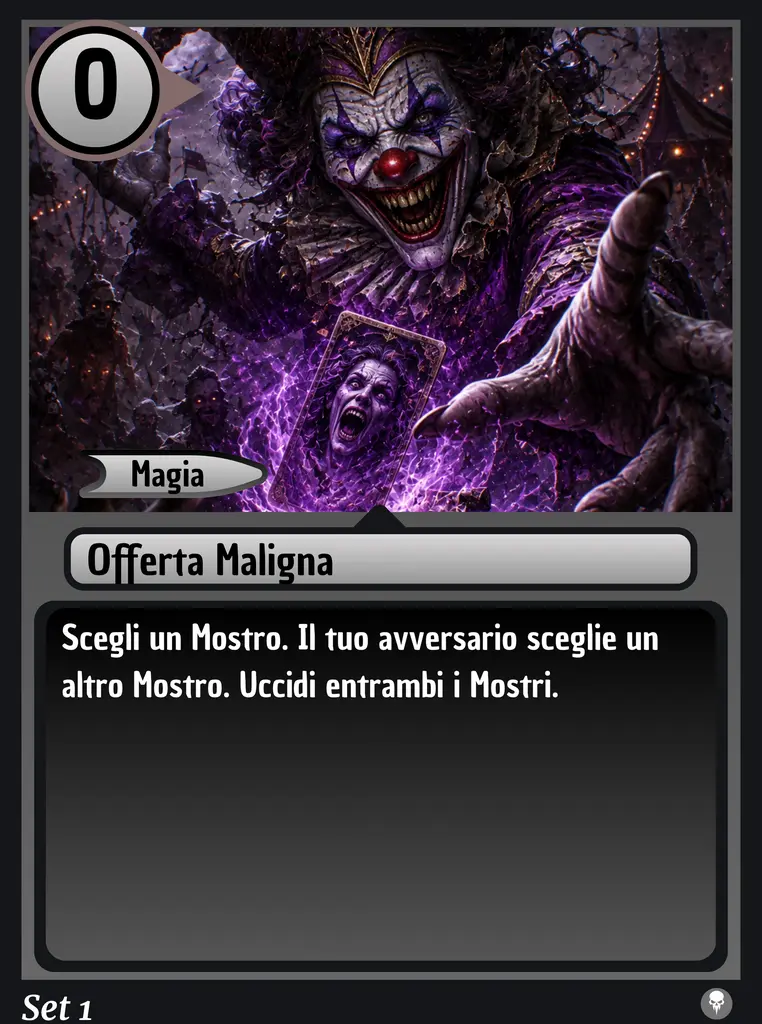
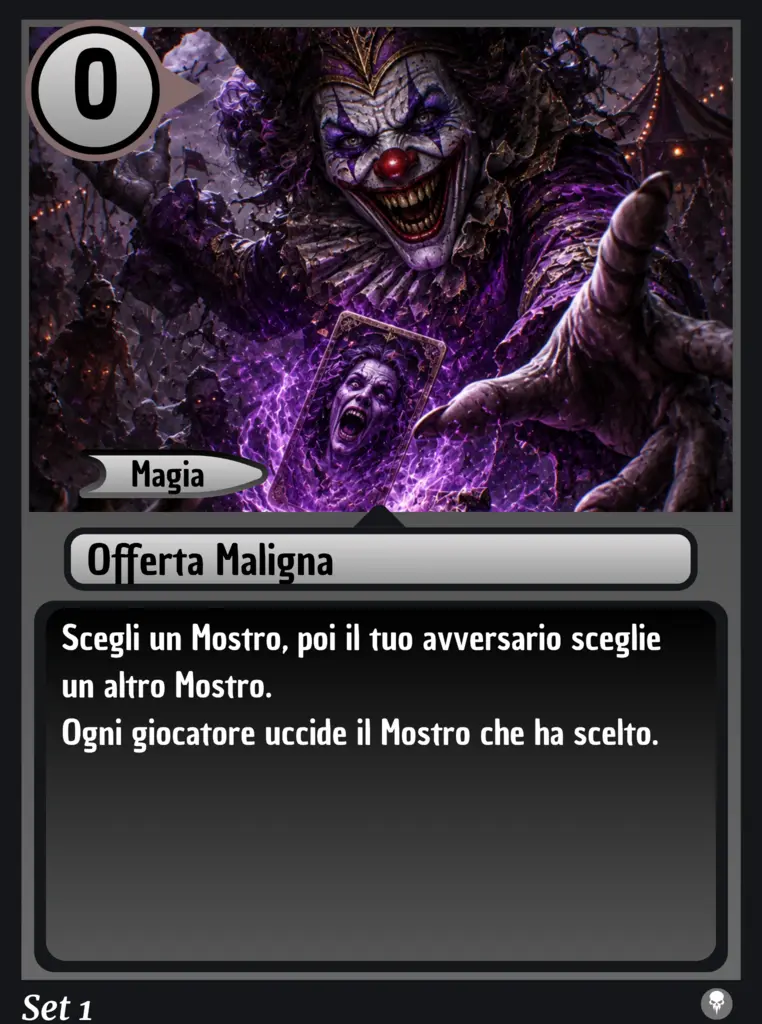
Update Offerta Maligna art and split kill logic

Changed region(s): [[0.0604, 0.5938, 0.8753, 0.75], [0.7244, 0.25, 0.7546, 0.2812]]

diff --git a/soulforge/index.html b/soulforge/index.html
@@ -18,7 +18,7 @@
     const fixes={'â€¢':'•','â€”':'—','â†’':'→','â€™':'’','â€¦':'…','â†‘':'↑','â†“':'↓','PrioritÃ ':'Priorità','sarÃ ':'sarà','lâ€™':'l’'};
     for(const [bad,good] of Object.entries(fixes)) html=html.split(bad).join(good);
     html=html.replace('</head>','<link rel="stylesheet" href="/ui-v2.css?v=4"><link rel="stylesheet" href="/grave-targets-v4.css?v=1"><link rel="stylesheet" href="/interaction-v5.css?v=1"><link rel="stylesheet" href="/layout-v9.css?v=1"><link rel="stylesheet" href="/hand-v11.css?v=3"><link rel="stylesheet" href="/set1-v18.css?v=1"><link rel="stylesheet" href="/blue-v22.css?v=1"><link rel="stylesheet" href="/deck-builder-v18.css?v=2"><link rel="stylesheet" href="/deck-builder-v22.css?v=4"><link rel="stylesheet" href="/attack-arrow-v20.css?v=1"><link rel="stylesheet" href="/fantasy-board-v29.css?v=1"><link rel="stylesheet" href="/fantasy-board-v29-fix.css?v=1"><link rel="stylesheet" href="/fantasy-board-v30.css?v=1"><link rel="stylesheet" href="/fantasy-board-v31.css?v=1"><link rel="stylesheet" href="/fantasy-board-v32.css?v=1"><link rel="stylesheet" href="/fantasy-board-v33.css?v=1"><link rel="stylesheet" href="/fantasy-board-v34.css?v=1"><link rel="stylesheet" href="/preview-v35.css?v=1"><link rel="stylesheet" href="/fantasy-board-v36.css?v=1"><link rel="stylesheet" href="/fantasy-board-v37.css?v=1"><link rel="stylesheet" href="/fantasy-board-v38.css?v=1"><link rel="stylesheet" href="/fantasy-board-v39.css?v=1"><link rel="stylesheet" href="/coin-hand-v40.css?v=1"><link rel="stylesheet" href="/card-hud-v41.css?v=2"><link rel="stylesheet" href="/hand-position-v74.css?v=1"></head>');
-    html=html.replace('</body>','<script src="/ui-v2.js?v=6"><\/script><script src="/combat-rules-v28.js?v=2"><\/script><script src="/right-click-preview.js?v=7"><\/script><script src="/grave-targets-v4.js?v=2"><\/script><script src="/interaction-v5.js?v=2"><\/script><script src="/targeting-v8.js?v=2"><\/script><script src="/specchio-stack-fix.js?v=1"><\/script><script src="/stability-v10.js?v=1"><\/script><script src="/hand-v11.js?v=4"><\/script><script src="/alta-marea-v13.js?v=1"><\/script><script src="/selection-v16.js?v=1"><\/script><script src="/set1-v17.js?v=4"><\/script><script src="/blue-v22-loader.js?v=10"><\/script><script src="/deck-builder-v27-loader.js?v=3"><\/script><script src="/deck-builder-visual-fix-v71.js?v=10"><\/script><script src="/deck-preview-details-v76.js?v=1"><\/script><script src="/new-monsters-details-v78.js?v=2"><\/script><script src="/attack-arrow-v20.js?v=1"><\/script><script src="/rules-v23.js?v=2"><\/script><script src="/provocation-v24.js?v=2"><\/script><script src="/targeting-standard-v27.js?v=1"><\/script><script src="/fantasy-board-v29.js?v=2"><\/script><script src="/fantasy-board-v30.js?v=2"><\/script><script src="/fantasy-board-v31.js?v=2"><\/script><script src="/preview-conflict-v37.js?v=1"><\/script><script src="/preview-cleanup-v38.js?v=1"><\/script><script src="/coin-hand-v40.js?v=1"><\/script><script src="/card-hud-v41.js?v=1"><\/script><script src="/festa-art-v42.js?v=1"><\/script><script src="/combat-priority-v44.js?v=1"><\/script><script src="/turn-effects-v45.js?v=1"><\/script><script src="/new-cards-v46.js?v=7"><\/script><script src="/new-card-runtime-v47.js?v=1"><\/script><script src="/deck-builder-filters-v48.js?v=4"><\/script><script src="/rules-priority-grave-v49.js?v=4"><\/script><script src="/gameover-rematch-v50.js?v=1"><\/script><script src="/taglio-fiammante-v51.js?v=1"><\/script><script src="/nube-di-fuoco-v52.js?v=1"><\/script><script src="/orange-safe-v1.js?v=2"><\/script><script src="/orange-ui-v2.js?v=2"><\/script><script src="/compact-champions-v61.js?v=1"><\/script><script src="/pugno-target-v62.js?v=2"><\/script><script src="/champion-target-v63.js?v=1"><\/script><script src="/festa-fix-v64.js?v=1"><\/script><script src="/no-target-cast-v65.js?v=1"><\/script><script src="/game-interaction-lock-v66.js?v=1"><\/script><script src="/grave-art-v67.js?v=2"><\/script><script src="/scatola-incantata-v75.js?v=1"><\/script><script src="/new-set-v70.js?v=2"><\/script><script src="/new-set-art-v73.js?v=6"><\/script><script src="/latest-set-v82.js?v=1"><\/script><script src="/new-monsters-v77.js?v=2"><\/script><script src="/hand-input-v69.js?v=3"><\/script></body>');
+    html=html.replace('</body>','<script src="/ui-v2.js?v=6"><\/script><script src="/combat-rules-v28.js?v=2"><\/script><script src="/right-click-preview.js?v=7"><\/script><script src="/grave-targets-v4.js?v=2"><\/script><script src="/interaction-v5.js?v=2"><\/script><script src="/targeting-v8.js?v=2"><\/script><script src="/specchio-stack-fix.js?v=1"><\/script><script src="/stability-v10.js?v=1"><\/script><script src="/hand-v11.js?v=4"><\/script><script src="/alta-marea-v13.js?v=1"><\/script><script src="/selection-v16.js?v=1"><\/script><script src="/set1-v17.js?v=4"><\/script><script src="/blue-v22-loader.js?v=10"><\/script><script src="/deck-builder-v27-loader.js?v=3"><\/script><script src="/deck-builder-visual-fix-v71.js?v=10"><\/script><script src="/deck-preview-details-v76.js?v=1"><\/script><script src="/new-monsters-details-v78.js?v=2"><\/script><script src="/attack-arrow-v20.js?v=1"><\/script><script src="/rules-v23.js?v=2"><\/script><script src="/provocation-v24.js?v=2"><\/script><script src="/targeting-standard-v27.js?v=1"><\/script><script src="/fantasy-board-v29.js?v=2"><\/script><script src="/fantasy-board-v30.js?v=2"><\/script><script src="/fantasy-board-v31.js?v=2"><\/script><script src="/preview-conflict-v37.js?v=1"><\/script><script src="/preview-cleanup-v38.js?v=1"><\/script><script src="/coin-hand-v40.js?v=1"><\/script><script src="/card-hud-v41.js?v=1"><\/script><script src="/festa-art-v42.js?v=1"><\/script><script src="/combat-priority-v44.js?v=1"><\/script><script src="/turn-effects-v45.js?v=1"><\/script><script src="/new-cards-v46.js?v=7"><\/script><script src="/new-card-runtime-v47.js?v=1"><\/script><script src="/deck-builder-filters-v48.js?v=4"><\/script><script src="/rules-priority-grave-v49.js?v=4"><\/script><script src="/gameover-rematch-v50.js?v=1"><\/script><script src="/taglio-fiammante-v51.js?v=1"><\/script><script src="/nube-di-fuoco-v52.js?v=1"><\/script><script src="/orange-safe-v1.js?v=2"><\/script><script src="/orange-ui-v2.js?v=2"><\/script><script src="/compact-champions-v61.js?v=1"><\/script><script src="/pugno-target-v62.js?v=2"><\/script><script src="/champion-target-v63.js?v=1"><\/script><script src="/festa-fix-v64.js?v=1"><\/script><script src="/no-target-cast-v65.js?v=1"><\/script><script src="/game-interaction-lock-v66.js?v=1"><\/script><script src="/grave-art-v67.js?v=2"><\/script><script src="/scatola-incantata-v75.js?v=1"><\/script><script src="/new-set-v70.js?v=2"><\/script><script src="/new-set-art-v73.js?v=6"><\/script><script src="/latest-set-v82.js?v=2"><\/script><script src="/new-monsters-v77.js?v=2"><\/script><script src="/hand-input-v69.js?v=3"><\/script></body>');
     html=html.replace('<script src="/hand-input-v69.js?v=3"><\/script>','<script src="/target-images-v83.js?v=1"><\/script><script src="/hand-input-v69.js?v=3"><\/script>');
     document.open();document.write(html);document.close();
   }catch(e){

diff --git a/soulforge/latest-set-v82.js b/soulforge/latest-set-v82.js
@@ -3,7 +3,7 @@ const BASE='https://raw.githubusercontent.com/andreaamiraglia-svg/fanta-riftboun
 const ART={
  arrivano_i_pirati:'arrivano-i-pirati.webp',colpo_di_cannone:'colpo-di-cannone.webp',galeone_fantasma:'galeone-fantasma.webp',
  furia_della_natura:'furia-della-natura.webp',shuriken:'shuriken.webp',zampata_amichevole:'zampata-amichevole.webp',
- offerta_maligna:'offerta-maligna.webp',scambio_di_anime:'scambio-di-anime.webp',visione_distorta:'visione-distorta.webp',
+ offerta_maligna:'offerta-maligna.webp?rev=ownership-v2',scambio_di_anime:'scambio-di-anime.webp',visione_distorta:'visione-distorta.webp',
  protettore_del_villaggio:'protettore-del-villaggio.webp',valanga:'valanga.webp',esercito_tormenta_neve:'esercito-della-tormenta-di-neve.webp',
  cavaliere_pioggia_frecce:'cavaliere-della-pioggia-di-frecce.webp',forgia_nanica:'forgia-nanica.webp',
  legionario_troll:'legionario-troll.webp',guardia_reale:'guardia-reale.webp'

diff --git a/soulforge/index.ts b/soulforge/index.ts
@@ -1,6 +1,6 @@
 import "jsr:@supabase/functions-js/edge-runtime.d.ts";
 import { createClient } from "https://esm.sh/@supabase/supabase-js@2";
-import { newState, newPlayer, act, publicView, CARD_DEFS } from "https://raw.githubusercontent.com/andreaamiraglia-svg/fanta-riftbound/main/soulforge/game-v59-loader.ts?rev=offerta-split-kills-v1";
+import { newState, newPlayer, act, publicView, CARD_DEFS } from "https://raw.githubusercontent.com/andreaamiraglia-svg/fanta-riftbound/main/soulforge/game-v59-loader.ts?rev=offerta-split-kills-v2";
 
 if(CARD_DEFS?.sguardo_ninjitsu) CARD_DEFS.sguardo_ninjitsu.text='Uccidi un Mostro danneggiato.';
 
